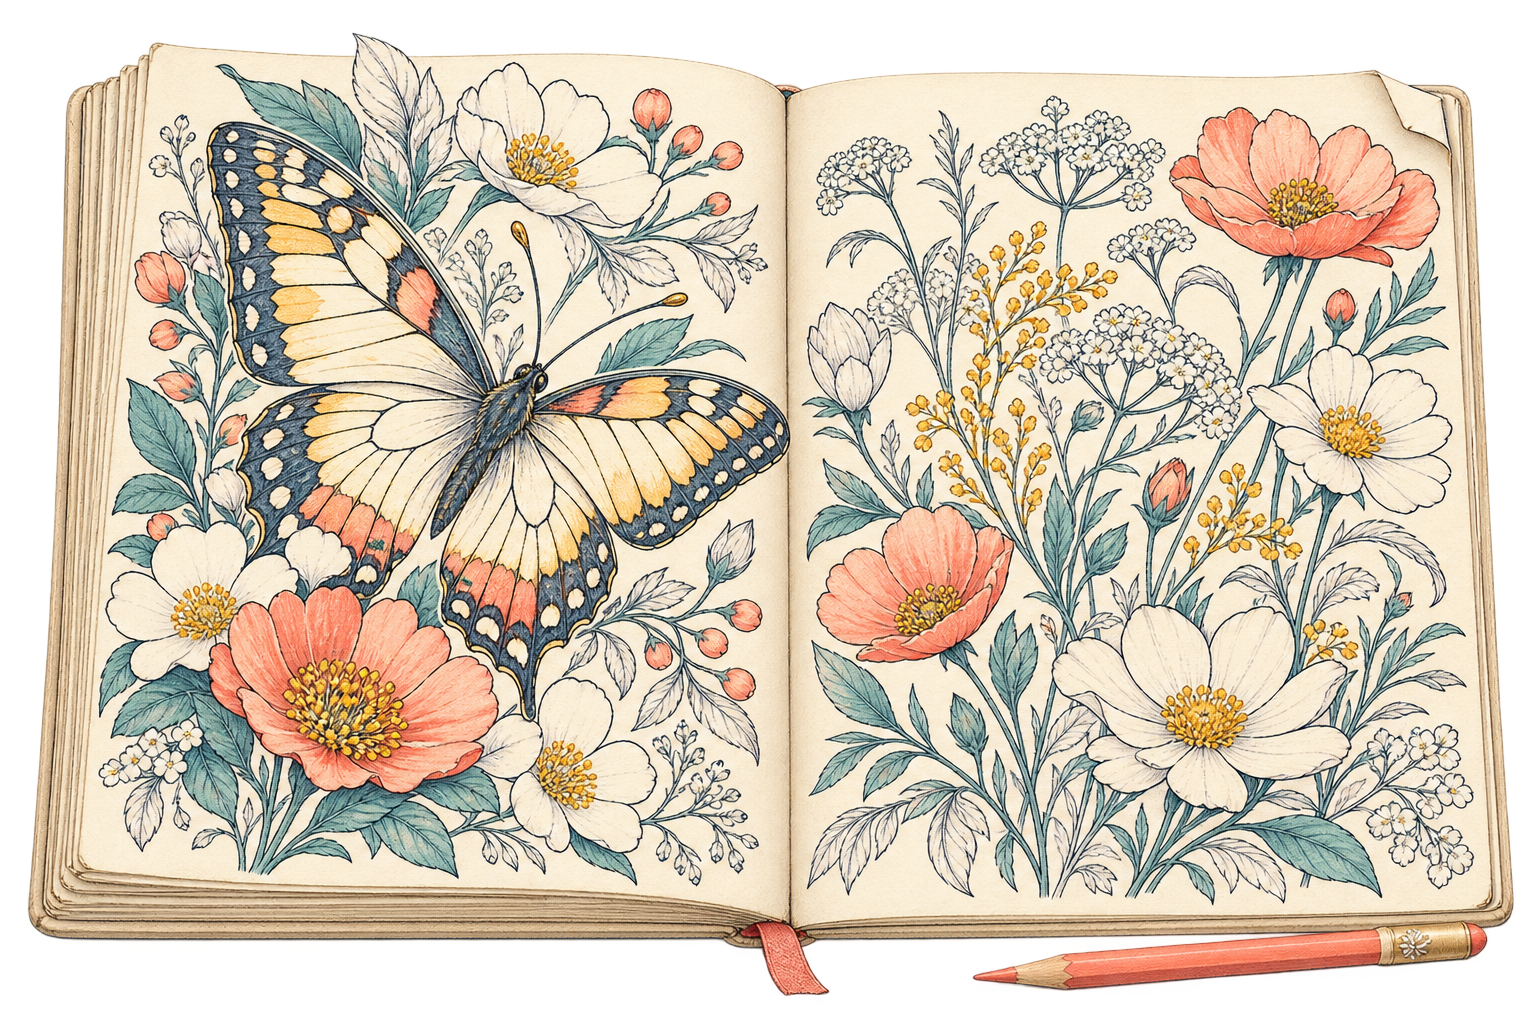
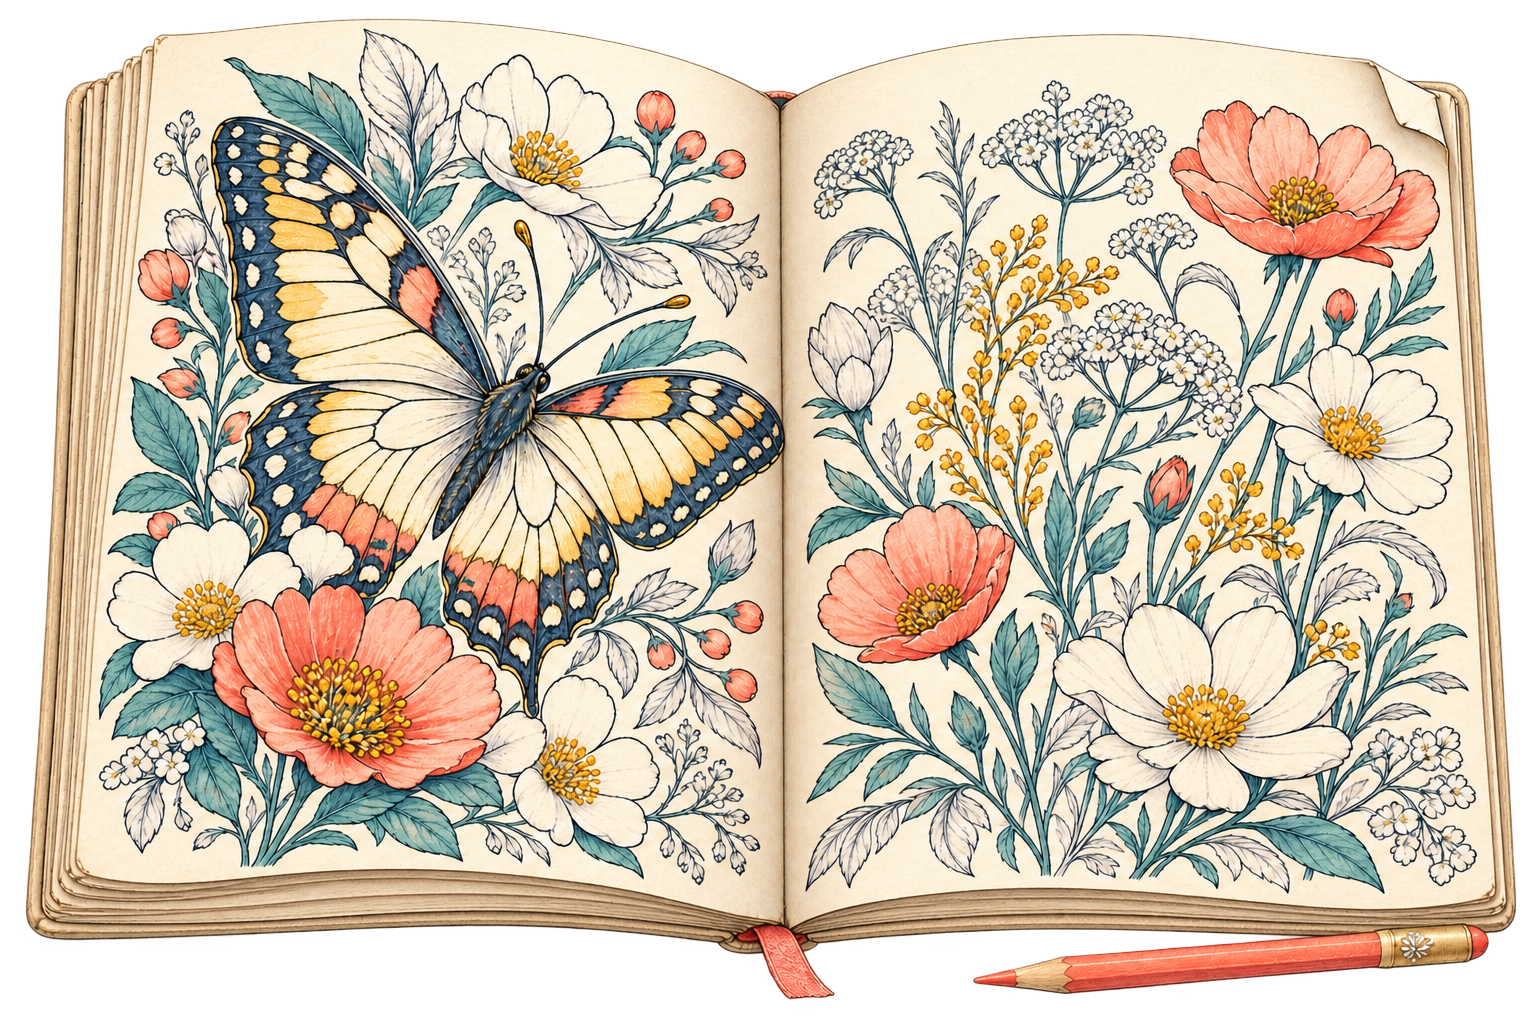
Fill paper previews to their edges and bow the coloring book pages

diff --git a/src/ui/SavedPreview.tsx b/src/ui/SavedPreview.tsx
@@ -5,7 +5,7 @@ import { Artwork } from '../editor/Artwork';
 import { prepareStickers } from '../editor/vectorStickers';
 import type { EditorSetup } from '../editor/setup';
 
-export function SavedPreview({ picture, pending = false, unavailable = false }: { picture: EditorSetup; pending?: boolean; unavailable?: boolean }) {
+export function SavedPreview({ picture, pending = false, unavailable = false, fit = 'contain' }: { picture: EditorSetup; pending?: boolean; unavailable?: boolean; fit?: 'contain' | 'cover' }) {
   const canvas = useRef<HTMLCanvasElement>(null);
   const [result, setResult] = useState<{ picture: EditorSetup; failed: boolean }>();
   const ready = !pending && !unavailable && result?.picture === picture && !result.failed;
@@ -27,7 +27,10 @@ export function SavedPreview({ picture, pending = false, unavailable = false }: 
       if (element.height !== h) element.height = h;
       const ctx = element.getContext('2d');
       if (!ctx) return;
-      ctx.setTransform(w / width, 0, 0, h / height, 0, 0);
+      if (fit === 'cover') {
+        const scale = Math.max(w / width, h / height);
+        ctx.setTransform(scale, 0, 0, scale, (w - width * scale) / 2, (h - height * scale) / 2);
+      } else ctx.setTransform(w / width, 0, 0, h / height, 0, 0);
       artwork.render(ctx, true);
     };
     const observer = new ResizeObserver(draw);
@@ -39,8 +42,8 @@ export function SavedPreview({ picture, pending = false, unavailable = false }: 
       setResult({ picture, failed: false });
     }).catch(() => { if (active) setResult({ picture, failed: true }); });
     return () => { active = false; observer.disconnect(); artwork?.dispose(); };
-  }, [picture, width, height, pending, unavailable]);
-  return <span className="saved-preview preview-frame" aria-busy={!ready && !failed} style={{ background: picture.background, aspectRatio: `${width} / ${height}`, width: `min(100%, calc(var(--preview-height, 240px) * ${width / height}))`, height: 'auto' }}>
+  }, [picture, width, height, pending, unavailable, fit]);
+  return <span className="saved-preview preview-frame" data-fit={fit} aria-busy={!ready && !failed} style={{ background: picture.background, aspectRatio: `${width} / ${height}`, width: fit === 'cover' ? '100%' : `min(100%, calc(var(--preview-height, 240px) * ${width / height}))`, height: fit === 'cover' ? '100%' : 'auto' }}>
     <canvas ref={canvas} width={1} height={1} aria-hidden="true" style={{ visibility: ready ? 'visible' : 'hidden' }} />
     {!ready && <span className={`preview-loading${failed ? ' is-error' : ''}`}>{failed ? <ImageOff aria-hidden="true" /> : <LoaderCircle className="preview-spinner" aria-hidden="true" />}<span className="sr-only" role="status">{failed ? 'Preview unavailable' : 'Loading picture preview'}</span></span>}
   </span>;

diff --git a/tests/browser/portfolio-navigation.ts b/tests/browser/portfolio-navigation.ts
@@ -17,8 +17,13 @@ function paperGeometry() {
   assert(pile.dataset.paperShape === expected, 'The front sheet must use the closest paper format');
   const page = document.querySelector<HTMLElement>('.portfolio-page')!;
   assert(getComputedStyle(page).maskImage.includes('sheet-'), 'The front sheet must use its artwork alpha mask');
+  assert(preview.dataset.fit === 'cover', 'The live drawing must cover the paper without stretching');
+  assert(Math.abs(preview.offsetWidth - page.offsetWidth) <= 1 && Math.abs(preview.offsetHeight - page.offsetHeight) <= 1, 'Artwork must cover the entire paper, without inset margins');
+  assert(getComputedStyle(preview).maskImage === 'none' && getComputedStyle(preview).opacity === '1', 'Full-color artwork must reach the silhouette without a faded inner frame');
   const canvas = preview.querySelector('canvas')!;
-  assert(Math.abs(canvas.width / canvas.height - width! / height!) < .05, 'The live drawing must retain its own proportions');
+  const transform = canvas.getContext('2d')!.getTransform();
+  assert(Math.abs(transform.a - transform.d) < 1e-6, 'Cover rendering must scale both drawing axes equally');
+  assert(transform.e <= 0 && transform.f <= 0 && width! * transform.a >= canvas.width - 1 && height! * transform.d >= canvas.height - 1, 'Cover rendering must not leave uncovered strips');
   const arrow = document.querySelector('[aria-label="Next saved picture"]')!.getBoundingClientRect();
   return { width: stage.offsetWidth, height: stage.offsetHeight, arrowY: arrow.y, ratio };
 }

diff --git a/src/ui/styles.css b/src/ui/styles.css
@@ -713,8 +713,8 @@ input[type='checkbox'], input[type='radio'], input[type='button'], input[type='s
 .portfolio-pile { position: relative; display: block; }
 .portfolio-stage .portfolio-stack-art { position: absolute; inset: 0; width: 100%; height: 100%; object-fit: contain; object-position: center; pointer-events: none; user-select: none; }
 .portfolio-page { position: absolute; inset: 0; background-size: 100% 100%; background-repeat: no-repeat; mask-size: 100% 100%; mask-repeat: no-repeat; isolation: isolate; transform-origin: left center; }
-.portfolio-artwork { position: absolute; inset: 4% 4% 5%; display: grid; place-items: center; mix-blend-mode: multiply; }
-.portfolio-page .saved-preview { --preview-height: calc(var(--object-height) * .8); max-width: 100%; max-height: 100%; border: 0; border-radius: 0; box-shadow: none; opacity: .96; mask-image: linear-gradient(to right, transparent, #000 10%, #000 90%, transparent), linear-gradient(to bottom, transparent, #000 10%, #000 90%, transparent); mask-composite: intersect; }
+.portfolio-artwork { position: absolute; inset: 0; display: grid; place-items: center; mix-blend-mode: multiply; }
+.portfolio-page .saved-preview { max-width: 100%; max-height: 100%; border: 0; border-radius: 0; box-shadow: none; }
 .portfolio-page .preview-spinner { width: 30px; height: 30px; filter: none; }
 .portfolio-page .empty-pictures { min-height: 0; border: 0; font-size: 15px; color: #687b7a; padding: 12px; }
 .portfolio-page.turn-next { animation: portfolio-next 240ms ease-out both; }

diff --git a/src/ui/SelectionScreen.tsx b/src/ui/SelectionScreen.tsx
@@ -190,7 +190,7 @@ export function SelectionScreen({ onOpen, onExit, theme, onThemeChange, settings
                   <span className="portfolio-pile" data-paper-shape={frontPaper.shape} style={{ width: `min(90%, calc(var(--object-height) * .88 * ${frontPaper.ratio}))`, aspectRatio: `${frontPaper.ratio}` }}>
                     <span className={`portfolio-page${pageTurn ? ` turn-${pageTurn}` : ''}`} key={currentSummary ? `${currentSummary.id}:${currentSummary.updatedAt}` : 'empty'} style={{ backgroundImage: `url("${frontPaper.artwork}")`, maskImage: `url("${frontPaper.artwork}")` }}>
                       <span className="portfolio-artwork">
-                        {currentSummary ? <SavedPreview picture={current ?? currentSummary} pending={!current && !currentError} unavailable={currentError} /> : library.loading ? <LoaderCircle className="preview-spinner" aria-label="Loading saved pictures" /> : <span className="empty-pictures">{library.error ? 'Storage unavailable' : 'Your art goes here'}</span>}
+                        {currentSummary ? <SavedPreview picture={current ?? currentSummary} fit="cover" pending={!current && !currentError} unavailable={currentError} /> : library.loading ? <LoaderCircle className="preview-spinner" aria-label="Loading saved pictures" /> : <span className="empty-pictures">{library.error ? 'Storage unavailable' : 'Your art goes here'}</span>}
                       </span>
                     </span>
                   </span>

diff --git a/docs/PICTURE-LIBRARY.md b/docs/PICTURE-LIBRARY.md
@@ -27,13 +27,15 @@ The selection screen presents saved work over a permanent illustrated paper stac
 beneath the drawing easel and coloring book, with no visible choice captions.
 The base artwork and browsing stage stay fixed across picture ratios. The front
 sheet selects the closest square, landscape or portrait illustration, while the
-live drawing retains its exact aspect ratio inside that sheet. Browsing arrows remain
+live drawing covers that sheet without stretching (center-cropping excess at
+different aspect ratios). Browsing arrows remain
 outside the open target, and utility buttons take click priority.
 Forward/backward navigation adds a 240 ms page-turn transform without delaying
 loading or interactions. Reduced-motion preferences disable the turn animation.
 Each front sheet reuses its generated transparent silhouette as a CSS alpha mask.
-The preview multiplies over its ivory texture with a narrow edge fade, keeping
-the worn paper visible without changing saved artwork or exported colors.
+The preview extends to the whole silhouette and multiplies over its ivory texture.
+There is no inset frame or edge fade; full-color backgrounds reach the paper edges.
+This decorative preview treatment does not change saved artwork or exported colors.
 
 The drawing, coloring and saved-picture choices use transparent, hand-inked
 watercolor illustrations. Original generated PNGs and exact prompts live in
